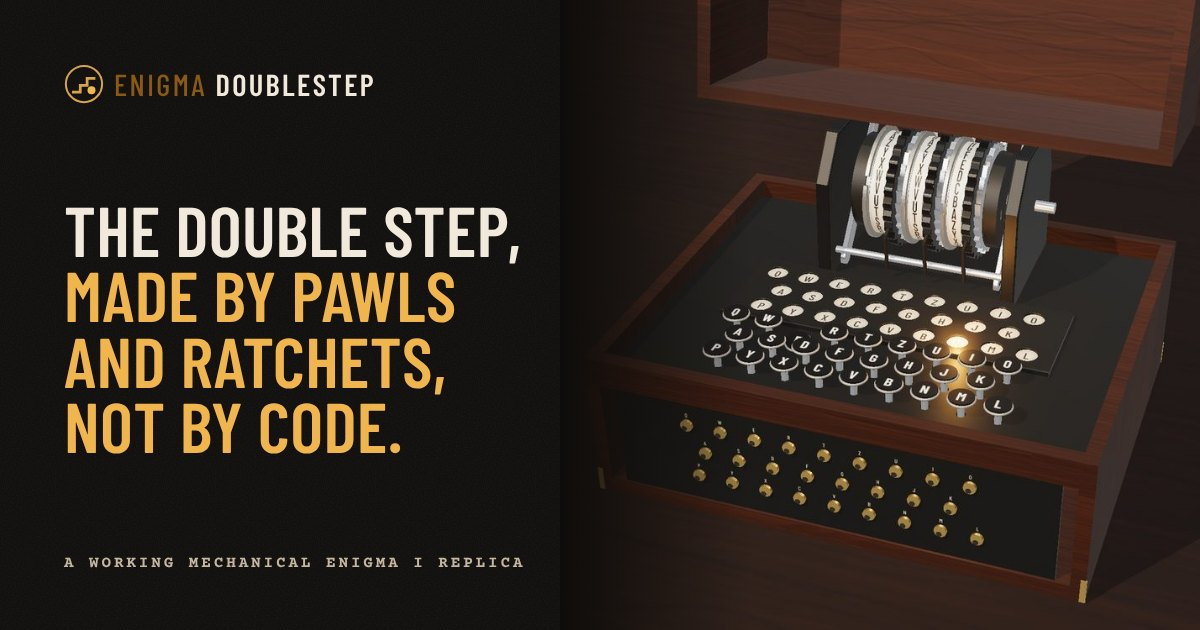
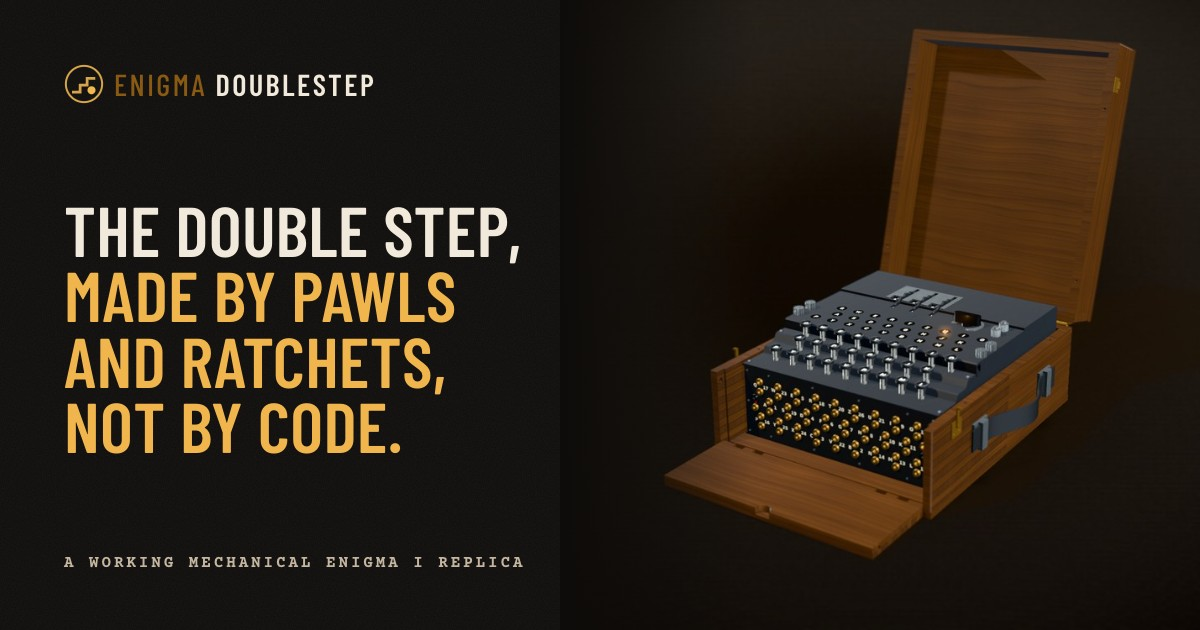
Show the current enclosed Enigma design in the project poster (#122)

diff --git a/src/content/projects/enigma-doublestep.ts b/src/content/projects/enigma-doublestep.ts
@@ -7,8 +7,8 @@ const project: ProjectMeta = {
   tags: ['Hardware', '3D Printing', 'Cryptography'],
   liveUrl: 'https://enigmadoublestep.com/',
   repoUrl: 'https://github.com/andeplane/openenigma',
-  screenshot: '/projects/enigma-doublestep/preview.jpg',
-  screenshotAlt: '3D render of the Enigma Doublestep replica with rotors, keyboard, and lampboard',
+  screenshot: '/projects/enigma-doublestep/preview.jpg?v=903095da5857',
+  screenshotAlt: 'Enigma Doublestep in its oak case with the lid hinged behind the enclosed rotors, keyboard, and lampboard',
   longDescription: `
 Enigma Doublestep is a project to build a physical replica of the Enigma cipher machine, exploring its rotor wiring and mechanical double-step along the way.
 

diff --git a/docs/reviews/enigma-poster-20261025/README.md b/docs/reviews/enigma-poster-20261025/README.md
@@ -1,0 +1,7 @@
+# Enigma poster review
+
[1 lines of base64/hex data omitted]
+
+On the isolated home-mini worker, TypeScript, Vite and SEO generation passed. The worker-only Vite config decodes the existing alias URL because its external volume contains a space; no project Vite configuration changed. Unchanged standalone demos were outside this targeted local build; the standard deployment workflow builds them.
+
+Actual Chrome review passed at 1440×1000, 390×844, 320×740 and 844×390: project poster and card, readable aspect ratio, no horizontal overflow, lightbox image, visible Close control, close/Escape dismissal and focus return, Projects navigation. Representative captures are beside this receipt. Poster and controls stay inside content insets; physical-device touch feel and hardware safe-area behavior remain unverified. No layout, prices or other project copy changed.
